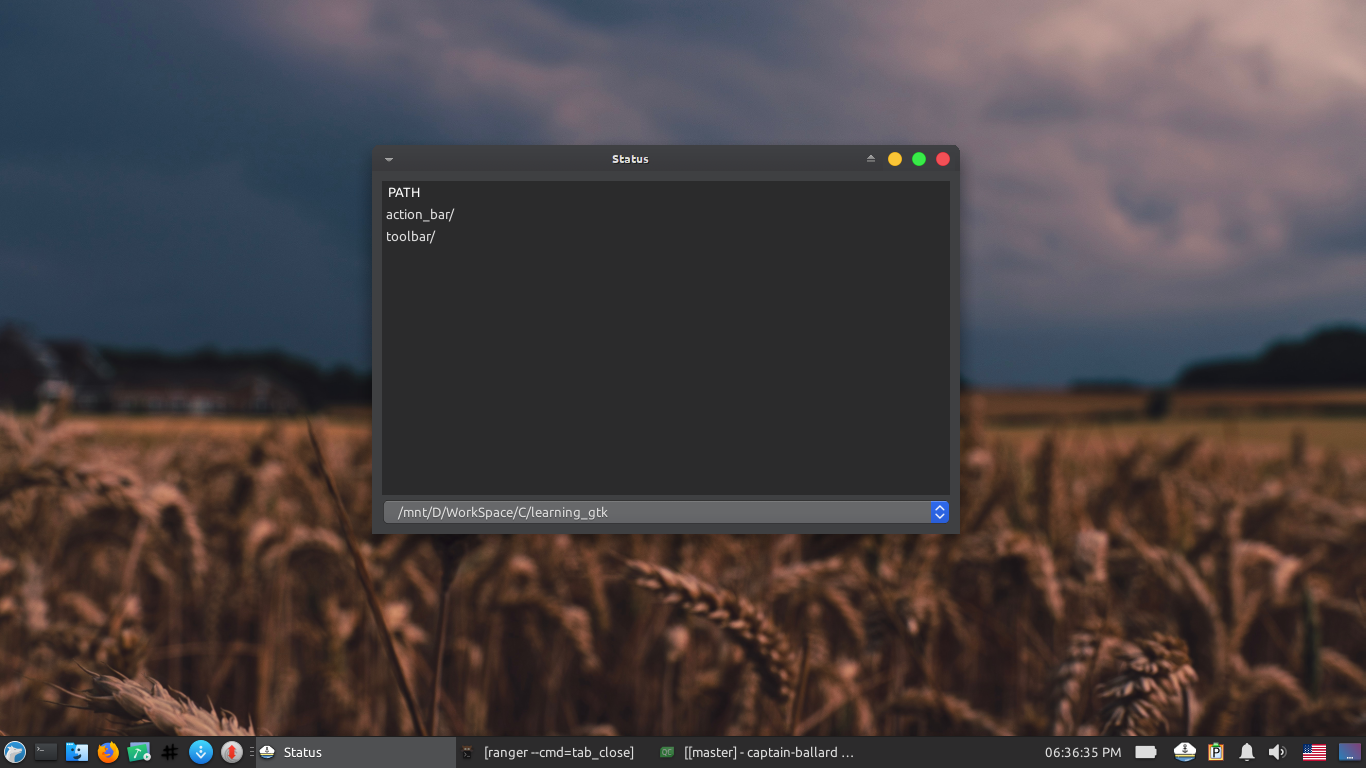
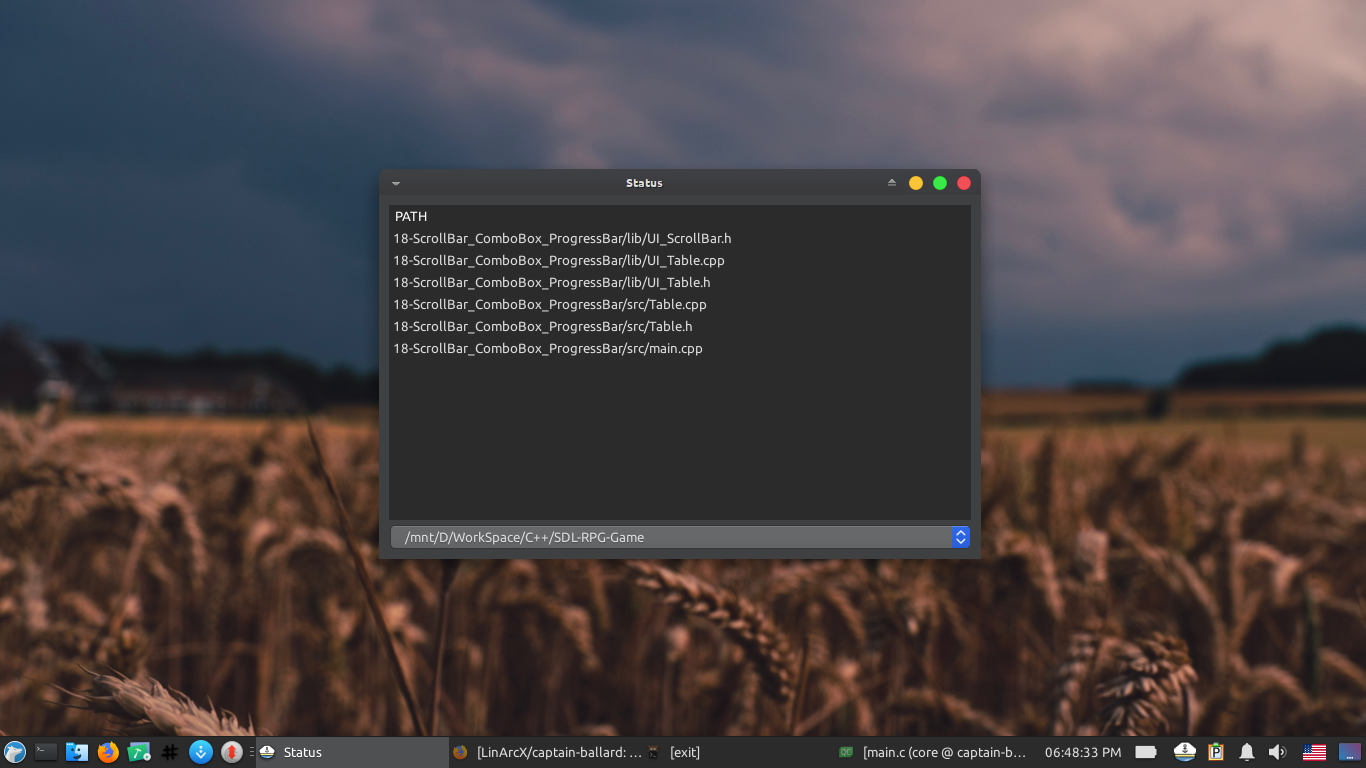
update readme and add status png as main image

Changed region(s): [[0.246, 0.1875, 0.7379, 0.75], [0.3075, 0.9688, 0.7379, 1.0]]

diff --git a/README.md b/README.md
@@ -2,7 +2,7 @@
 Git-aware app that protect your projects before too late:)
 
 ## Preview
-!["gnulium"](./assets/shots/1.0.0/about.png "captain-ballard")
+!["gnulium"](./assets/shots/1.0.0/status.png "captain-ballard")
 
 ## A long time ago..
 I had lots of projects in my computer and some of them managed by git. after a couple of months, by accident i lost my whole data and projects.
@@ -22,11 +22,11 @@ Watch __.git__ directories on your hard-drive and show a window that contain cha
 
 |Dependencies||
 |-----|:-----:|
-|[cmake](https://www.archlinux.org/packages/extra/x86_64/git/)|![](https://github.com/LinxGem33/Neon/blob/master/artwork/done.svg.png?raw=true)
-|[gtk+-3.0](https://www.archlinux.org/packages/extra/x86_64/qt5-base/)|![](https://github.com/LinxGem33/Neon/blob/master/artwork/done.svg.png?raw=true)
-|[sqlite3](https://www.archlinux.org/packages/extra/x86_64/qt5-quickcontrols/)|![](https://github.com/LinxGem33/Neon/blob/master/artwork/done.svg.png?raw=true)
-|[libgit2](https://www.archlinux.org/packages/extra/x86_64/qt5-quickcontrols2/)|![](https://github.com/LinxGem33/Neon/blob/master/artwork/done.svg.png?raw=true)
-|[appindicator](https://www.archlinux.org/packages/extra/x86_64/qt5-quickcontrols2/)|![](https://github.com/LinxGem33/Neon/blob/master/artwork/done.svg.png?raw=true)
+|[cmake](https://www.archlinux.org/packages/extra/x86_64/git/)
+|[gtk+-3.0](https://www.archlinux.org/packages/extra/x86_64/qt5-base/)
+|[sqlite3](https://www.archlinux.org/packages/extra/x86_64/qt5-quickcontrols/)
+|[libgit2](https://www.archlinux.org/packages/extra/x86_64/qt5-quickcontrols2/)
+|[appindicator](https://www.archlinux.org/packages/extra/x86_64/qt5-quickcontrols2/)
 
 3. clone the repo:
 
